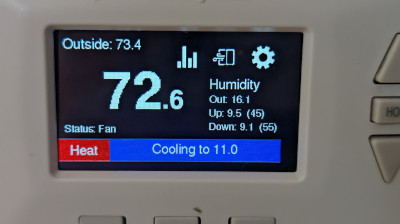
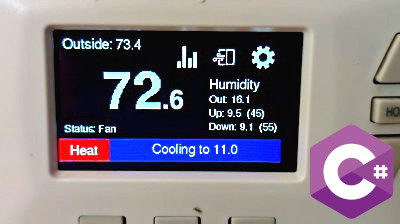
thermastat project details started

diff --git a/projects/index.html b/projects/index.html
@@ -52,45 +52,29 @@
     </section>
 
     <section class="section">
-      <h2>C-Sharp</h2>
-      <p class="text-center fst-italic">A python arcade game</p>
-      <div id="fomcore" class="container">
-        <div class="row">
+      <h2 id="thermastat">C-Sharp Thermastat</h2>
+      <p class="text-center fst-italic">
+        Built from scratch using a Raspberry Pi
+      </p>
+      <div class="mx-auto col-md-6">
+        <a href="https://github.com/jonathanlangdon/c-sharp-thermastat">
+          <img
+            src="../images/c-sharp-thermastat.jpg"
+            alt="custom csharp smart thermastat pic"
+            class="card-img-top"
+          />
+        </a>
+      </div>
+      <div class="container">
+        <div class="row justify-content-center">
           <!-- Card -->
-          <div class="col-md-4 d-flex align-items-center">
+          <div class="col-md-4 my-3">
             <div class="card bg-dark text-white">
-              <div class="card-body text-center">
-                <div class="mx-auto card-header">
-                  <img
-                    src="../images/spaceBefore.gif"
-                    alt="before forking space invaders"
-                    class="card-img-top mxauto"
-                  />
-                </div>
-              </div>
-            </div>
-          </div>
-          <!-- Card end -->
-          <!-- Card -->
-          <div id="arrow" class="col-md-2 d-flex align-items-center mx-auto">
-            <img
-              src="../images/arrowRight.png"
-              alt="arrow pointing right"
-              class="card-img-top mxauto"
-            />
-          </div>
-          <!-- Card end -->
-          <!-- Card -->
-          <div class="col-md-6">
-            <div class="card bg-dark text-white">
-              <div class="card-body text-center">
-                <div class="mx-auto card-header">
-                  <img
-                    src="../images/spaceAfter.gif"
-                    alt="after forking code"
-                    class="card-img-top mxauto"
-                  />
-                </div>
+              <div class="card-body">
+                <p class="card-text">
+                  This is a project idea I've had for a few years.
+                </p>
+                <p class="card-text">I'll add more details here'</p>
               </div>
             </div>
           </div>
@@ -99,44 +83,10 @@
           <div class="col-md-4 my-3">
             <div class="card bg-dark text-white">
               <div class="card-body">
-                <p class="card-text">
-                  This was a fun project that I did for a friend who works for a
-                  local company in Muskegon. They were going to a trade show and
-                  had the idea of creating a custom video game that was themed
-                  around their company.
-                </p>
-                <p class="card-text">
-                  I jumped at the opportunity to practice my newly formed
-                  programming skills and found some starter code on GitHub that
-                  I could mold into shape for my friend's user story.
-                </p>
-              </div>
-            </div>
-          </div>
-          <!-- Card end -->
-          <!-- Card -->
-          <div class="col-md-4 my-3">
-            <div class="card bg-dark text-white">
-              <div class="card-body">
-                <p class="card-text">
-                  After about 25 hours of work, the forked python game now
-                  included the following additional features that the starter
-                  code did not have:
-                </p>
+                <p class="card-text">And some more here</p>
                 <ul>
-                  <li>New images to re-theme the game</li>
-                  <li>Tweaks to the game play - bullet shooting speed, etc</li>
-                  <li>
-                    High score tracking between games (json file used) with
-                    player names
-                  </li>
-                  <li>A way for users to reset the high scores</li>
-                  <li>
-                    An Ubuntu OS that starts the game automatically when it
-                    boots
-                  </li>
-                  <li>Music background added</li>
-                  <li>Resolution changed to 1080</li>
+                  <li>details</li>
+                  <li>details</li>
                 </ul>
               </div>
             </div>
@@ -146,23 +96,14 @@
           <div class="col-md-4 my-3">
             <div class="card bg-dark text-white">
               <div class="card-body">
-                <p class="card-text">
-                  It was a successful fork of a fun game to add some additional
-                  features. It was one of my first projects in coding and it
-                  wasn't the cleanest code I've written - if I were working on
-                  it now, I would try to refactor it for the functions and
-                  classes to be smaller and remove some duplicated code. But
-                  since it was a once and done project for a single trade-show,
-                  I didn't need to code to be perfect for maintainability.
-                </p>
+                <p class="card-text">Final Thoughts</p>
                 <p class="card-text">
                   Here is the link to my repository on GitHub:
                   <a
-                    href="https://github.com/jonathanlangdon/fomcore_space_invaders"
-                    >Fomcore Invaders</a
+                    href="https://github.com/jonathanlangdon/c-sharp-thermastat"
+                    >C-Sharp Thermostat</a
                   >
                 </p>
-                <p>208 lines of code added (644 to 852)</p>
               </div>
             </div>
           </div>

diff --git a/cardAdding.js b/cardAdding.js
@@ -323,13 +323,13 @@ const GoalCards = [
 ];
 const ProjectCards = [
   {
-    imgLink: 'projects/#fomcore',
-    imgSource: 'images/fomcore.jpg',
-    altText: 'space invaders fork image',
-    cardTitle: 'Fomcore Invaders',
-    cardText: 'Practice with OOP using classes & objects',
-    buttonLink: 'projects/#fomcore',
-    cardButton: 'A Python Game'
+    imgLink: 'projects',
+    imgSource: 'images/c-sharp-thermastat.jpg',
+    altText: 'my custom thermastat image',
+    cardTitle: 'C-Sharp Thermastat',
+    cardText: 'Built from scratch with custom logic',
+    buttonLink: 'projects',
+    cardButton: 'A Smart Thermastat'
   },
   {
     imgLink: 'projects/#snowday',
